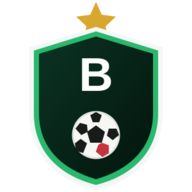
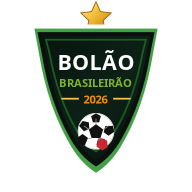
fix(branding): aplica identidade visual oficial JARVIS Série 4.1
fix(branding): corrige implementação da identidade visual JARVIS

- Remove versão de marca não aprovada
- Aplica escudo oficial Série 4.1 Final
- Padroniza cabeçalho, login e splash screen
- Atualiza favicon e ícones PWA
- Alinha aplicações ao Brand Guide oficial

diff --git a/css/identity-premium.css b/css/identity-premium.css
@@ -278,3 +278,10 @@ tbody tr:hover{background:rgba(112,236,165,.045)}
 @media(max-width:720px){.hero-brand{min-height:190px}.hero-brand img{width:min(205px,58vw);max-height:225px}}
 @media(max-width:520px){.brand-mark{width:44px!important;height:52px!important}.loading-screen .loading-brand{width:150px}.hero-brand{min-height:170px}.hero-brand img{width:175px}}
 @media(prefers-reduced-motion:reduce){.loading-screen .loading-brand{animation:none}}
+/* v6.6.0 correção JARVIS — aplicação fiel da Série 4.1 Final */
+.brand-mark{width:58px!important;height:70px!important;flex:0 0 58px!important}
+.brand-mark img{width:100%!important;height:100%!important;object-fit:contain!important}
+.brand{align-items:center!important;gap:14px!important}
+.brand h1{font-size:1.28rem!important;font-weight:900!important;color:#fff!important}
+.brand-version .version-pill{color:#9bc53d!important;font-size:.72rem!important;font-weight:900!important}
+@media(max-width:520px){.brand-mark{width:47px!important;height:57px!important;flex-basis:47px!important}.brand{gap:10px!important}.brand h1{font-size:1rem!important}}

diff --git a/index.html b/index.html
@@ -6,7 +6,7 @@
   <meta name="theme-color" content="#071b12">
   <meta name="description" content="Bolão Brasileirão 2026 — palpites, ranking e emoção entre amigos.">
   <title>Bolão Brasileirão 2026</title>
-  <link rel="icon" href="./assets/favicon.svg" type="image/svg+xml">
+  <link rel="icon" href="./assets/favicon.png" type="image/png">
   <link rel="apple-touch-icon" href="./assets/brand/jarvis-192.png">
   <meta property="og:title" content="Bolão Brasileirão 2026">
   <meta property="og:description" content="Palpites, ranking e emoção rodada a rodada.">
@@ -28,7 +28,7 @@
 
   <header class="topbar">
     <div class="brand">
-      <span class="brand-mark"><img src="./assets/brand/jarvis-symbol.svg" alt=""></span>
+      <span class="brand-mark"><img src="./assets/brand/jarvis-primary.svg" alt=""></span>
       <div>
         <h1>Bolão Brasileirão</h1>
         <p class="brand-version"><span id="appVersion" class="version-pill">v6.6.0</span></p>
